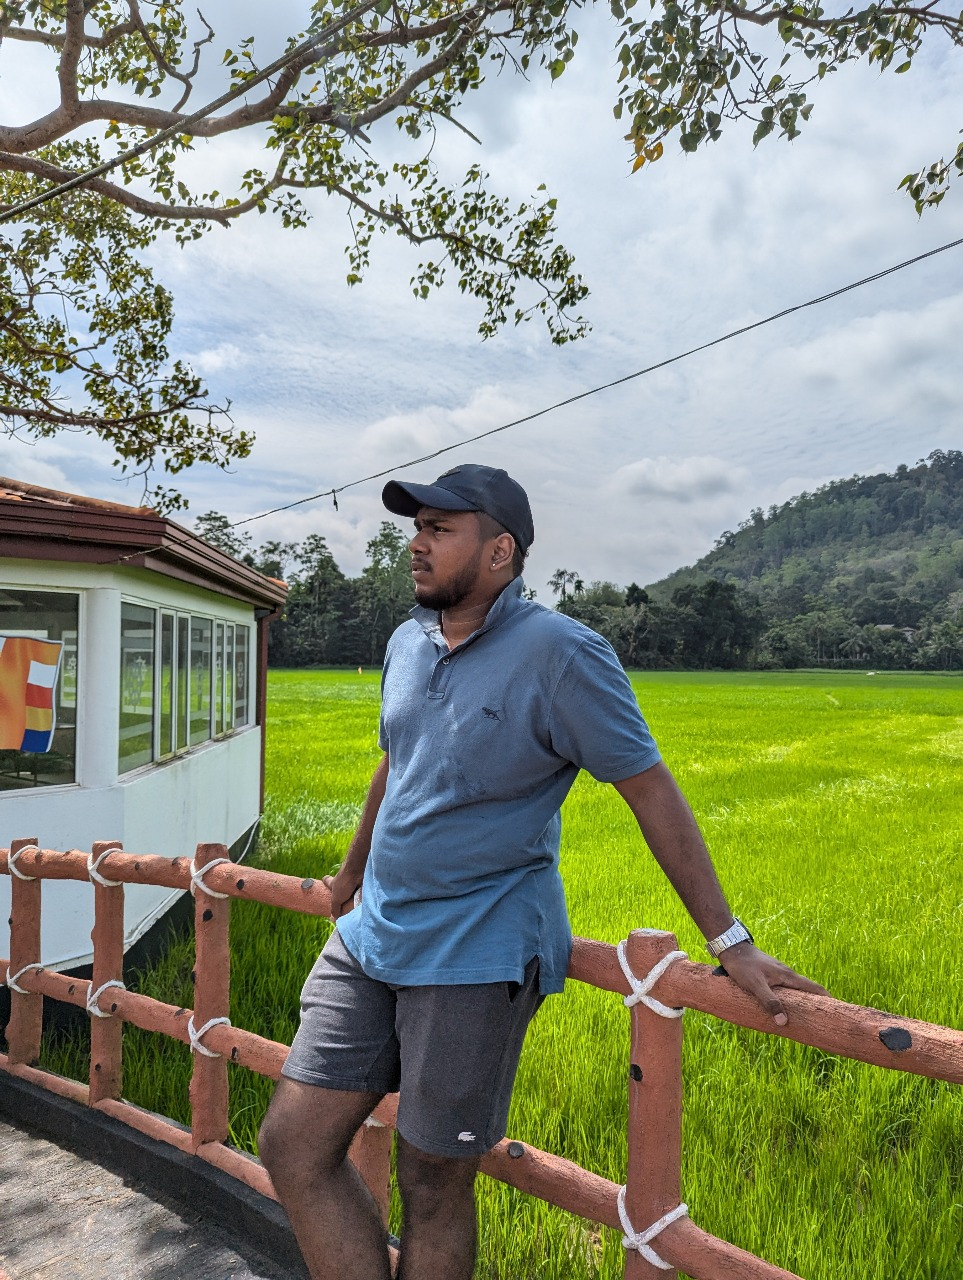
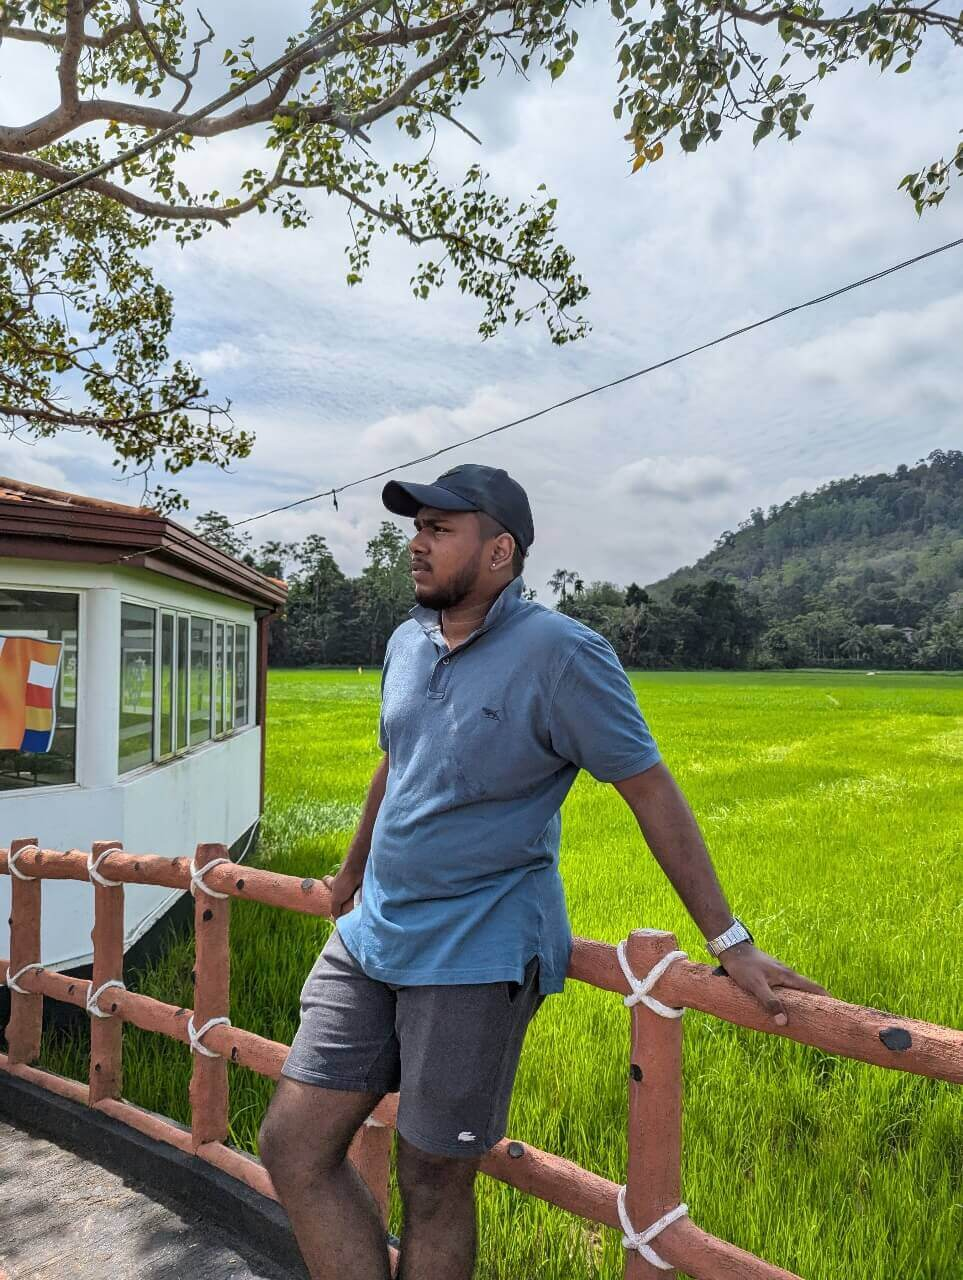
1st commit on 31st October with images optimized and compressed and GitHub card updated.

diff --git a/index.html b/index.html
@@ -166,7 +166,7 @@
                             <div class="about-git-profile-stats">
                                 <div class="about-git-stat-item">
                                     <span class="about-git-stat-label">REPOSITORIES</span>
-                                    <span class="about-git-stat-value" data-text="11">11</span>
+                                    <span class="about-git-stat-value" data-text="13">13</span>
                                 </div>
                                 <div class="about-git-stat-item">
                                     <span class="about-git-stat-label">FOLLOWERS</span>
